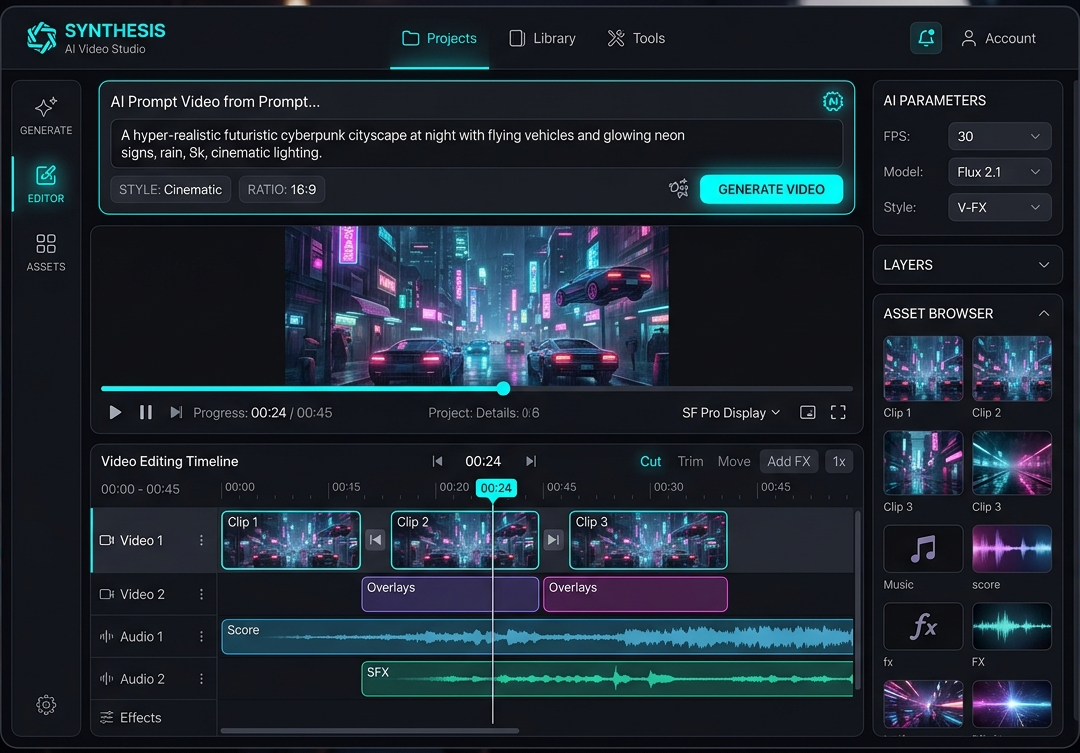
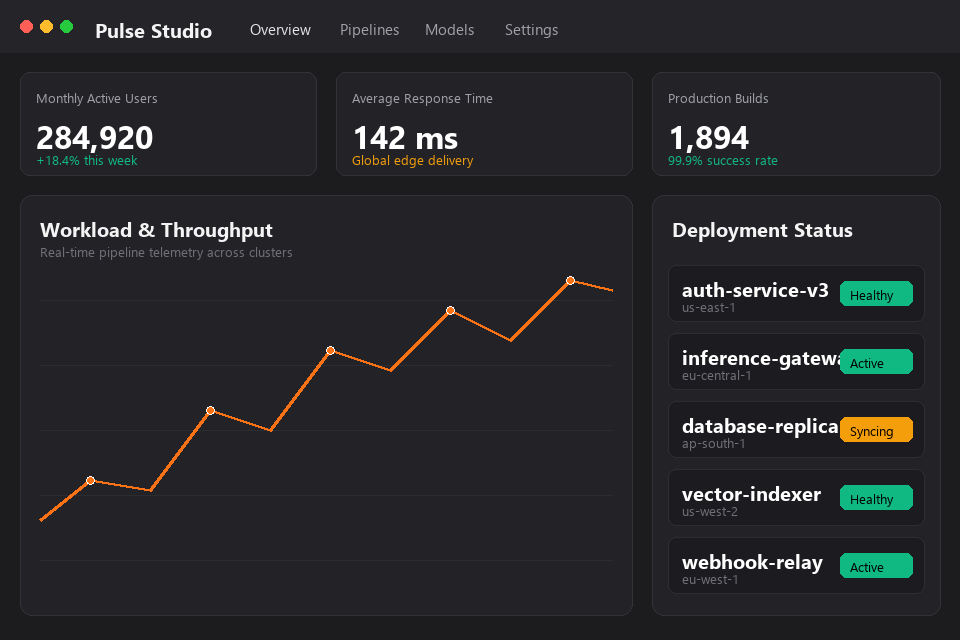
Fix dark mode 3D emblem white box and remove blue layer/card on login page

diff --git a/src/components/auth/AuthProvider.tsx b/src/components/auth/AuthProvider.tsx
@@ -208,44 +208,44 @@ function SignInScreen({ status, error, onSignIn }: { status: AuthStatus; error: 
 
         {/* ─── LEFT SIDE CARDS (3 CARDS) ─── */}
         {/* Card 1 (Left Top): Pulse Analytics Dashboard */}
-        <div className="absolute -top-4 -left-12 sm:-left-6 md:left-[1%] lg:left-[2%] xl:left-[3%] w-[190px] sm:w-[240px] md:w-[270px] lg:w-[310px] rounded-2xl overflow-hidden shadow-xl shadow-zinc-900/10 dark:shadow-2xl dark:shadow-black/80 -rotate-[12deg] opacity-60 sm:opacity-75 md:opacity-85 lg:opacity-90 transition-all">
+        <div className="absolute -top-4 -left-12 sm:-left-6 md:left-[1%] lg:left-[2%] xl:left-[3%] w-[190px] sm:w-[240px] md:w-[270px] lg:w-[310px] rounded-2xl overflow-hidden shadow-xl shadow-zinc-900/10 dark:shadow-2xl dark:shadow-black/80 -rotate-[12deg] opacity-85 sm:opacity-90 md:opacity-95 lg:opacity-100 transition-all">
           {/* eslint-disable-next-line @next/next/no-img-element */}
           <img src="/mockups/card-left-1.png" alt="SaaS Analytics Dashboard" className="w-full h-auto object-cover rounded-2xl border border-black/10 dark:border-white/10" />
         </div>
 
         {/* Card 2 (Left Middle): Aura E-Commerce Store */}
-        <div className="absolute top-[32%] -left-16 sm:-left-8 md:left-[0%] lg:left-[1%] xl:left-[2%] w-[180px] sm:w-[220px] md:w-[250px] lg:w-[290px] rounded-2xl overflow-hidden shadow-xl shadow-zinc-900/10 dark:shadow-2xl dark:shadow-black/80 -rotate-[15deg] opacity-50 sm:opacity-70 md:opacity-85 lg:opacity-90 transition-all">
+        <div className="absolute top-[32%] -left-16 sm:-left-8 md:left-[0%] lg:left-[1%] xl:left-[2%] w-[180px] sm:w-[220px] md:w-[250px] lg:w-[290px] rounded-2xl overflow-hidden shadow-xl shadow-zinc-900/10 dark:shadow-2xl dark:shadow-black/80 -rotate-[15deg] opacity-85 sm:opacity-90 md:opacity-95 lg:opacity-100 transition-all">
           {/* eslint-disable-next-line @next/next/no-img-element */}
           <img src="/mockups/card-left-2.png" alt="E-Commerce Fashion Store" className="w-full h-auto object-cover rounded-2xl border border-black/10 dark:border-white/10" />
         </div>
 
         {/* Card 3 (Left Bottom): Video Ad Studio */}
-        <div className="absolute -bottom-8 -left-10 sm:-left-4 md:left-[2%] lg:left-[3%] xl:left-[4%] w-[170px] sm:w-[210px] md:w-[240px] lg:w-[280px] rounded-2xl overflow-hidden shadow-xl shadow-zinc-900/10 dark:shadow-2xl dark:shadow-black/80 -rotate-[8deg] opacity-60 sm:opacity-75 md:opacity-85 lg:opacity-90 transition-all">
+        <div className="absolute -bottom-8 -left-10 sm:-left-4 md:left-[2%] lg:left-[3%] xl:left-[4%] w-[170px] sm:w-[210px] md:w-[240px] lg:w-[280px] rounded-2xl overflow-hidden shadow-xl shadow-zinc-900/10 dark:shadow-2xl dark:shadow-black/80 -rotate-[8deg] opacity-85 sm:opacity-90 md:opacity-95 lg:opacity-100 transition-all">
           {/* eslint-disable-next-line @next/next/no-img-element */}
           <img src="/mockups/card-left-3.png" alt="Video Ad Studio" className="w-full h-auto object-cover rounded-2xl border border-black/10 dark:border-white/10" />
         </div>
 
         {/* ─── RIGHT SIDE CARDS (3 CARDS) ─── */}
         {/* Card 4 (Right Top): Build Unicorns Founder Platform */}
-        <div className="absolute -top-4 -right-12 sm:-right-6 md:right-[1%] lg:right-[2%] xl:right-[3%] w-[190px] sm:w-[240px] md:w-[270px] lg:w-[310px] rounded-2xl overflow-hidden shadow-xl shadow-zinc-900/10 dark:shadow-2xl dark:shadow-black/80 rotate-[14deg] opacity-60 sm:opacity-75 md:opacity-85 lg:opacity-90 transition-all">
+        <div className="absolute -top-4 -right-12 sm:-right-6 md:right-[1%] lg:right-[2%] xl:right-[3%] w-[190px] sm:w-[240px] md:w-[270px] lg:w-[310px] rounded-2xl overflow-hidden shadow-xl shadow-zinc-900/10 dark:shadow-2xl dark:shadow-black/80 rotate-[14deg] opacity-85 sm:opacity-90 md:opacity-95 lg:opacity-100 transition-all">
           {/* eslint-disable-next-line @next/next/no-img-element */}
           <img src="/mockups/card-right-1.png" alt="Founder Platform" className="w-full h-auto object-cover rounded-2xl border border-black/10 dark:border-white/10" />
         </div>
 
-        {/* Card 5 (Right Middle): Synthesis AI Video Studio */}
-        <div className="absolute top-[32%] -right-16 sm:-right-8 md:right-[0%] lg:right-[1%] xl:right-[2%] w-[180px] sm:w-[220px] md:w-[250px] lg:w-[290px] rounded-2xl overflow-hidden shadow-xl shadow-zinc-900/10 dark:shadow-2xl dark:shadow-black/80 rotate-[17deg] opacity-50 sm:opacity-70 md:opacity-85 lg:opacity-90 transition-all">
+        {/* Card 5 (Right Middle): Pulse Studio Dashboard */}
+        <div className="absolute top-[32%] -right-16 sm:-right-8 md:right-[0%] lg:right-[1%] xl:right-[2%] w-[180px] sm:w-[220px] md:w-[250px] lg:w-[290px] rounded-2xl overflow-hidden shadow-xl shadow-zinc-900/10 dark:shadow-2xl dark:shadow-black/80 rotate-[17deg] opacity-85 sm:opacity-90 md:opacity-95 lg:opacity-100 transition-all">
           {/* eslint-disable-next-line @next/next/no-img-element */}
-          <img src="/mockups/card-right-3.png" alt="AI Video Studio" className="w-full h-auto object-cover rounded-2xl border border-black/10 dark:border-white/10" />
+          <img src="/mockups/card-right-3.png" alt="Pulse Studio Dashboard" className="w-full h-auto object-cover rounded-2xl border border-black/10 dark:border-white/10" />
         </div>
 
         {/* Card 6 (Right Bottom): Mobile Health & Finance App */}
-        <div className="absolute -bottom-8 -right-10 sm:-right-4 md:right-[2%] lg:right-[3%] xl:right-[4%] w-[170px] sm:w-[210px] md:w-[240px] lg:w-[270px] rounded-2xl overflow-hidden shadow-xl shadow-zinc-900/10 dark:shadow-2xl dark:shadow-black/80 rotate-[22deg] opacity-60 sm:opacity-75 md:opacity-85 lg:opacity-90 transition-all">
+        <div className="absolute -bottom-8 -right-10 sm:-right-4 md:right-[2%] lg:right-[3%] xl:right-[4%] w-[170px] sm:w-[210px] md:w-[240px] lg:w-[270px] rounded-2xl overflow-hidden shadow-xl shadow-zinc-900/10 dark:shadow-2xl dark:shadow-black/80 rotate-[22deg] opacity-85 sm:opacity-90 md:opacity-95 lg:opacity-100 transition-all">
           {/* eslint-disable-next-line @next/next/no-img-element */}
           <img src="/mockups/card-right-2.png" alt="Mobile Health App" className="w-full h-auto object-cover rounded-2xl border border-black/10 dark:border-white/10" />
         </div>
 
-        {/* Center radial overlay so text and login button are 100% readable */}
-        <div className="absolute inset-0 bg-[radial-gradient(ellipse_65%_65%_at_50%_50%,rgba(250,250,250,0.96)_0%,rgba(250,250,250,0.7)_55%,rgba(250,250,250,0.15)_100%)] dark:bg-[radial-gradient(ellipse_65%_65%_at_50%_50%,rgba(29,29,28,0.96)_0%,rgba(29,29,28,0.65)_55%,rgba(29,29,28,0.1)_100%)] transition-all duration-200" />
+        {/* Center radial overlay so text and login button are 100% readable, without washing out the floating cards */}
+        <div className="absolute inset-0 pointer-events-none bg-[radial-gradient(circle_at_50%_50%,rgba(250,250,250,0.98)_0%,rgba(250,250,250,0.85)_30%,transparent_60%)] dark:bg-[radial-gradient(circle_at_50%_50%,rgba(29,29,28,0.98)_0%,rgba(29,29,28,0.85)_30%,transparent_60%)] transition-all duration-200" />
       </div>
 
       {/* ═══ TOP HEADER ═══ */}
@@ -259,9 +259,11 @@ function SignInScreen({ status, error, onSignIn }: { status: AuthStatus; error: 
       {/* ═══ CENTER AUTH HERO ═══ */}
       <div className="relative z-20 flex flex-1 flex-col items-center justify-center px-4 pb-12 pt-2 sm:pb-16">
         {/* 3D Rotating Emblem iframe */}
-        <div className="w-[180px] h-[130px] sm:w-[210px] sm:h-[150px] relative flex items-center justify-center -mb-2">
+        <div className="w-[180px] h-[130px] sm:w-[210px] sm:h-[150px] relative flex items-center justify-center -mb-2 bg-transparent">
           <iframe
             src="/bigbag-3d-emblem.html"
+            allowTransparency={true}
+            style={{ backgroundColor: "transparent", colorScheme: "normal" }}
             className="w-full h-full border-0 bg-transparent"
             title="3D Bigbag Rotating Emblem"
           />

diff --git a/public/bigbag-3d-emblem.html b/public/bigbag-3d-emblem.html
@@ -3,6 +3,7 @@
 <head>
   <meta charset="UTF-8">
   <meta name="viewport" content="width=device-width, initial-scale=1.0">
+  <meta name="color-scheme" content="dark light">
   <title>3D Bigbag Rotating Emblem</title>
   <!-- Three.js 3D Engine -->
   <script src="https://cdnjs.cloudflare.com/ajax/libs/three.js/r128/three.min.js"></script>
@@ -12,31 +13,37 @@
   <script src="https://cdn.jsdelivr.net/npm/three@0.128.0/examples/js/loaders/FontLoader.js"></script>
   <script src="https://cdn.jsdelivr.net/npm/three@0.128.0/examples/js/geometries/TextGeometry.js"></script>
   <style>
+    :root {
+      color-scheme: dark light;
+    }
     * {
       box-sizing: border-box;
       margin: 0;
       padding: 0;
       user-select: none;
     }
-    body, html {
+    html, body {
       width: 100%;
       height: 100%;
       overflow: hidden;
-      background: transparent;
+      background: transparent !important;
+      background-color: transparent !important;
     }
     #webgl-canvas {
       width: 100%;
       height: 100%;
       display: block;
       cursor: grab;
+      background: transparent !important;
+      background-color: transparent !important;
     }
     #webgl-canvas:active {
       cursor: grabbing;
     }
   </style>
 </head>
-<body>
-  <canvas id="webgl-canvas"></canvas>
+<body style="background: transparent !important; background-color: transparent !important;">
+  <canvas id="webgl-canvas" style="background: transparent !important; background-color: transparent !important;"></canvas>
 
   <script>
     /* Global Application State */
@@ -60,8 +67,10 @@
         canvas: canvas,
         antialias: true,
         alpha: true,
+        premultipliedAlpha: false,
         powerPreference: 'high-performance'
       });
+      renderer.setClearColor(0x000000, 0);
       renderer.setSize(window.innerWidth, window.innerHeight);
       renderer.setPixelRatio(Math.min(window.devicePixelRatio, 2));
       renderer.toneMapping = THREE.ACESFilmicToneMapping;
@@ -95,7 +104,7 @@
       keyLight1.position.set(-6, 7, 8);
       scene.add(keyLight1);
 
-      const keyLight2 = new THREE.DirectionalLight(0xdbeafe, 2.8);
+      const keyLight2 = new THREE.DirectionalLight(0xffffff, 2.8);
       keyLight2.position.set(7, 3, 6);
       scene.add(keyLight2);
 
